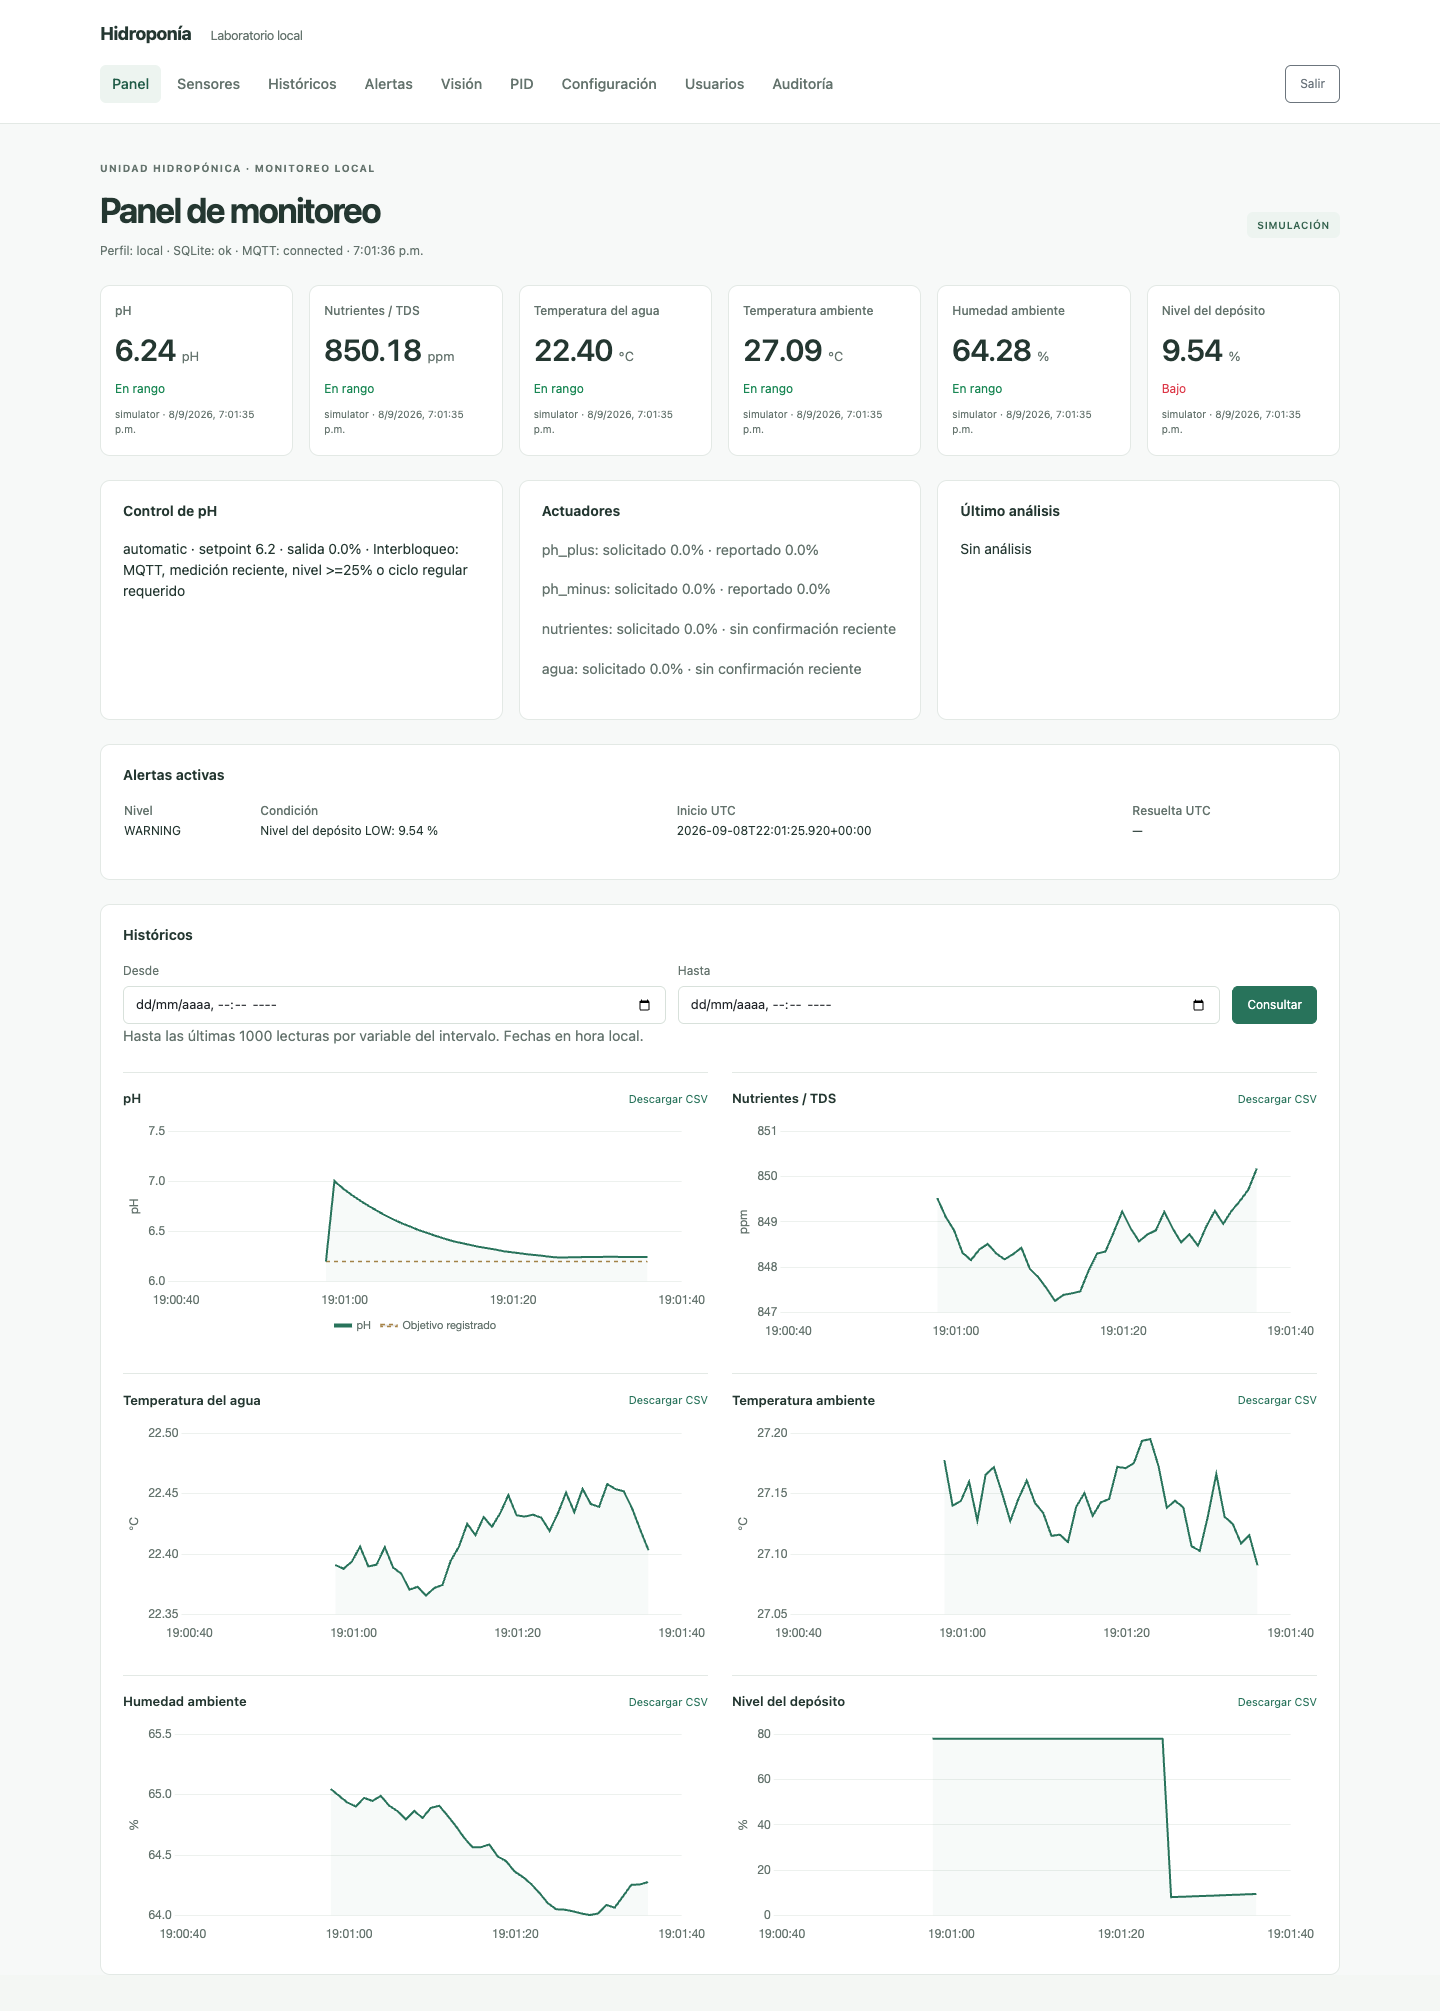
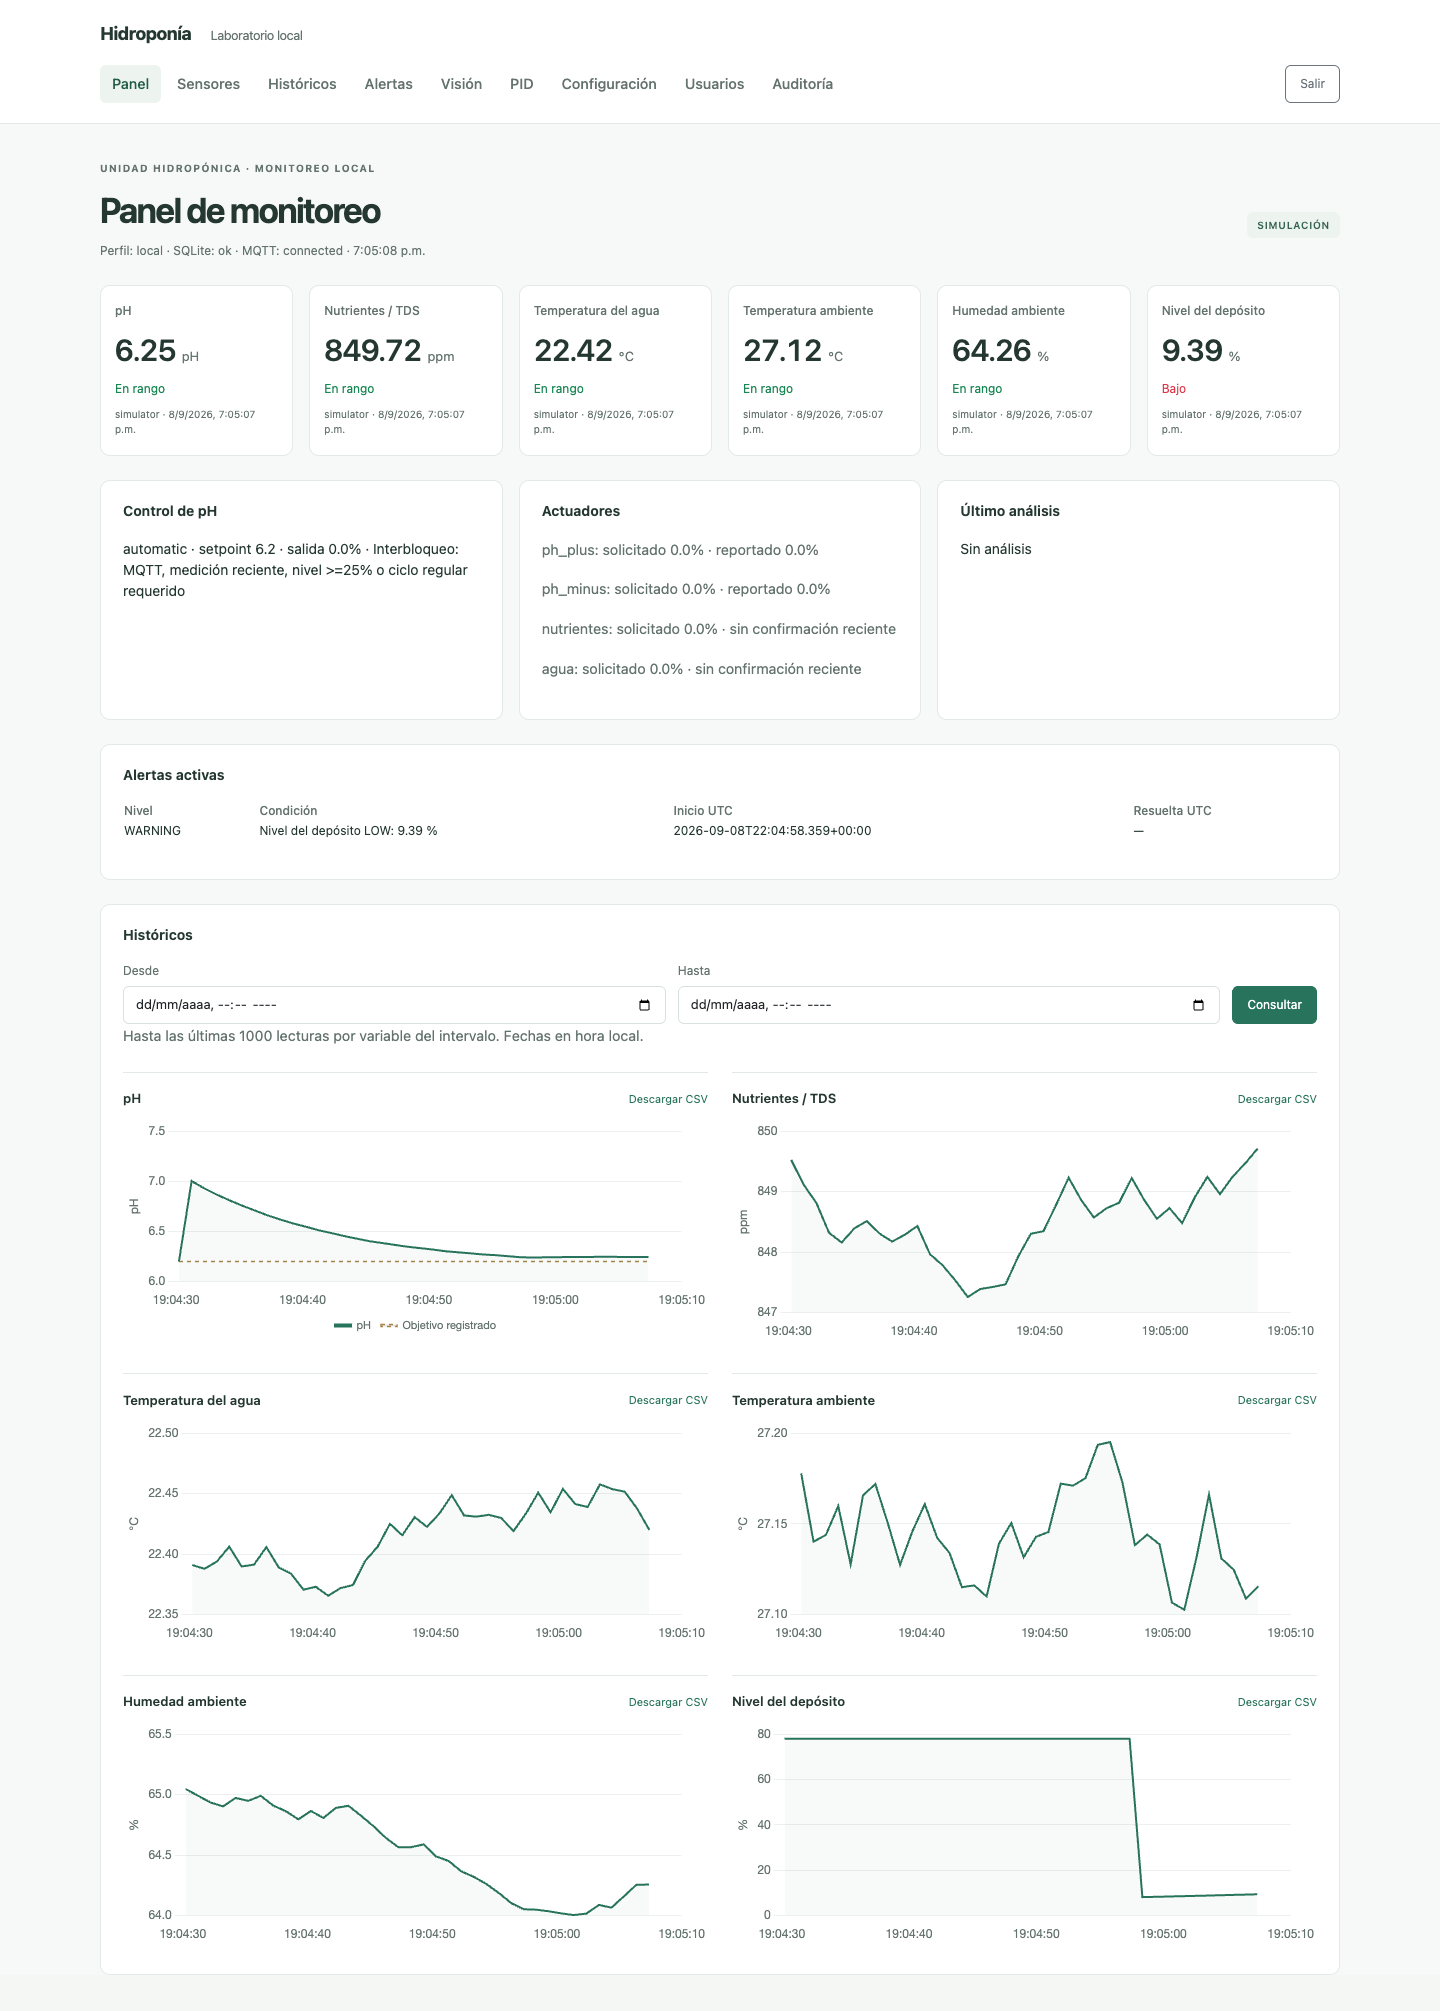
feat: mostrar imagenes del dataset en galeria de vision

diff --git a/app/static/js/system.js b/app/static/js/system.js
@@ -84,6 +84,37 @@ async function visions() {
   if($('vision-summary')) { $('vision-summary').textContent=data?`${data.coverage.toFixed(1)}% cobertura verde · ${date(data.timestamp)}`:'Sin análisis'; if(data) {const img=document.createElement('img');img.src=`/api/vision/image/${data.processed_image}`;img.alt='Última segmentación vegetal';$('vision-summary').append(img);} }
   if($('vision-list')) { const rows=await api('/api/vision'); $('vision-list').replaceChildren();rows.forEach(r=>{const card=node('article','');const img=document.createElement('img');img.src=`/api/vision/image/${r.processed_image}`;img.alt='Segmentación de '+r.filename;card.append(img,node('h3',`${r.coverage.toFixed(2)}% verde`),node('p',`${r.filename} · ${date(r.timestamp)}`),node('small',r.observations));$('vision-list').append(card);}); }
 }
+let mlPage=1, mlRequest=0;
+async function mlGallery(page=1) {
+  if(!$('ml-gallery')) return;
+  const request=++mlRequest;
+  $('ml-prev').disabled=true; $('ml-next').disabled=true;
+  $('ml-gallery-status').textContent='Cargando imágenes…';
+  $('ml-gallery').replaceChildren(); $('ml-page').textContent='';
+  try {
+    const data=await api(`/api/vision/ml/samples?split=${$('ml-split').value}&page=${page}`);
+    if(request!==mlRequest) return;
+    mlPage=data.page;
+    const number=value=>Number(value).toLocaleString('es',{maximumFractionDigits:2});
+    for(const sample of data.items) {
+      const card=node('article','','ml-sample');
+      if(sample.available) {
+        const link=document.createElement('a'); link.href=`/api/vision/ml/sample/${sample.id}`; link.target='_blank'; link.rel='noopener'; link.setAttribute('aria-label',`Abrir imagen ${sample.filename}`);
+        const img=document.createElement('img'); img.src=link.href; img.alt=`Lechuga segmentada de ${sample.experiment}, captura ${sample.date}, día relativo ${sample.target_day}`; img.loading='lazy'; img.width=640; img.height=480;
+        img.onerror=()=>link.replaceWith(node('p','Imagen no disponible o con integridad inválida.','note'));
+        link.append(img); card.append(link);
+      } else card.append(node('p','Imagen no disponible en esta instalación.','note'));
+      const info=node('div','','ml-sample-info');
+      info.append(node('h4',`${sample.date} · ${sample.experiment}`),node('p',sample.filename,'ml-filename'));
+      const values=node('dl','','ml-sample-values');
+      for(const [label,value] of [['Día registrado',number(sample.target_day)],['Día estimado',number(sample.predicted_day)],['Error absoluto',`${number(sample.error_days)} días`]]) values.append(node('dt',label),node('dd',value));
+      info.append(values); card.append(info); $('ml-gallery').append(card);
+    }
+    $('ml-gallery-status').textContent=`${data.total} imágenes en este conjunto. Mostrando ${(data.page-1)*12+1}–${Math.min(data.page*12,data.total)}. Abrí una imagen para verla completa.`;
+    $('ml-page').textContent=`Página ${data.page} de ${data.pages}`;
+    $('ml-prev').disabled=data.page<=1; $('ml-next').disabled=data.page>=data.pages;
+  } catch(error) { if(request===mlRequest) $('ml-gallery-status').textContent='No se pudo cargar la muestra: '+error.message; }
+}
 async function mlReport() {
   if(!$('ml-tests')) return;
   try {
@@ -122,7 +153,8 @@ async function refresh() {try{const state=await api('/api/health');$('connection
   button('auto','/api/control/mode',{mode:'automatic'});button('stop','/api/control/manual',{output:0});button('emergency','/api/control/emergency',{});button('reset','/api/control/reset',{});button('webcam','/api/vision/capture',{},visions);
   if($('backup')) $('backup').onclick=async()=>{try{const response=await fetch('/api/backup',{method:'POST',headers:{'X-CSRF-Token':csrf()}});if(!response.ok)throw new Error('Error al crear respaldo');const a=document.createElement('a');a.href=URL.createObjectURL(await response.blob());a.download='hidroponia-backup.sqlite3';a.click();setTimeout(()=>URL.revokeObjectURL(a.href),1000);}catch(e){feedback(e.message,true);}};
   if($('history-filter')) $('history-filter').onsubmit=e=>{e.preventDefault();histories().catch(e=>feedback(e.message,true));};
+  if($('ml-split')) { $('ml-split').onchange=()=>mlGallery(1); $('ml-prev').onclick=()=>mlGallery(mlPage-1); $('ml-next').onclick=()=>mlGallery(mlPage+1); }
   if($('alert-filter')) $('alert-filter').onchange=()=>alerts().catch(e=>feedback(e.message,true));
-  try { if($('image-files')) (await api('/api/vision/files')).forEach(f=>{const o=node('option',f);o.value=f;$('image-files').append(o);});await refresh();await controlStatus(true);await histories();await visions();await mlReport();await adminPages(); } catch(e){feedback(e.message,true);}
+  try { if($('image-files')) (await api('/api/vision/files')).forEach(f=>{const o=node('option',f);o.value=f;$('image-files').append(o);});await refresh();await controlStatus(true);await histories();await visions();await mlReport();await mlGallery();await adminPages(); } catch(e){feedback(e.message,true);}
   setInterval(refresh,2000);if($('charts'))setInterval(()=>histories().catch(e=>feedback(e.message,true)),10000);
 })();

diff --git a/app/templates/dashboard.html b/app/templates/dashboard.html
@@ -28,6 +28,14 @@
   <div id="ml-metrics" class="grid"></div>
   <details class="ml-details"><summary>Comparar entrenamiento, validación y prueba</summary><div id="ml-splits"></div></details>
   <figure id="ml-figure" hidden><img src="/api/vision/ml/evidence/evaluation.png" alt="Evaluación de HydroGrowNet: predicciones frente al día observado y error por día del tercer experimento." loading="lazy"><figcaption class="note">Experimento reservado para prueba. La línea discontinua del primer gráfico representa una predicción exacta.</figcaption></figure>
+  <section class="ml-gallery-section" aria-labelledby="ml-gallery-title">
+    <div class="heading"><div><h3 id="ml-gallery-title">Imágenes utilizadas en el entrenamiento y las pruebas</h3><p class="note">Imágenes originales del dataset, ya segmentadas por sus autores. El día registrado es relativo al inicio de cada experimento.</p></div>
+      <label for="ml-split">Conjunto<select id="ml-split" class="form-select"><option value="test">Prueba reservada · Month3</option><option value="validation">Validación · Month2</option><option value="train">Entrenamiento · Month1</option></select></label>
+    </div>
+    <p id="ml-gallery-status" class="note" role="status">Cargando imágenes…</p>
+    <div id="ml-gallery" class="ml-gallery" aria-label="Muestra de imágenes del dataset"></div>
+    <div class="ml-pagination"><button id="ml-prev" class="btn btn-outline-secondary" type="button" disabled>Anterior</button><span id="ml-page" class="note"></span><button id="ml-next" class="btn btn-outline-secondary" type="button" disabled>Siguiente</button></div>
+  </section>
   <div class="actions"><a class="btn btn-outline-secondary" href="/api/vision/ml/evidence/RESULTADOS.md">Descargar informe</a><a class="btn btn-outline-secondary" href="/api/vision/ml/evidence/predictions.csv">Descargar predicciones CSV</a><a class="btn btn-outline-secondary" href="https://data.mendeley.com/datasets/g6cm3v3wdp/3" target="_blank" rel="noopener noreferrer">Dataset original ↗</a></div>
   <p class="note mt-3 mb-0">Resultados de una muestra del dataset, independientes de tus capturas y de los sensores Wokwi. Este modelo no controla actuadores. Datos: Shalash, Hassan, Metwalli y Elhefny (2025), CC BY 4.0.</p>
 </section>

diff --git a/app/static/css/app.css b/app/static/css/app.css
@@ -88,3 +88,17 @@ a { color:var(--accent); }
 #ml-figure figcaption { font-size:12px; margin-top:10px; }
 #ml-tests .heading { margin-bottom:16px; }
 #ml-title { margin-bottom:0; }
+
+.ml-gallery-section { margin:28px 0; padding-top:24px; border-top:1px solid var(--line); }
+.ml-gallery { display:grid; grid-template-columns:repeat(3,minmax(0,1fr)); gap:16px; }
+.ml-sample { padding:0; overflow:hidden; }
+.ml-sample img { width:100%; height:auto; aspect-ratio:4/3; object-fit:contain; background:#000; margin:0; border-radius:0; }
+.ml-sample-info { padding:16px; }
+.ml-sample h4 { font-size:13px; font-weight:600; }
+.ml-filename { font-size:11px; overflow-wrap:anywhere; }
+.ml-sample-values { display:grid; grid-template-columns:1fr auto; gap:6px 12px; margin:0; font-size:12px; }
+.ml-sample-values dt { font-weight:400; color:var(--muted); }
+.ml-sample-values dd { margin:0; font-variant-numeric:tabular-nums; }
+.ml-pagination { display:flex; align-items:center; justify-content:center; gap:16px; margin-top:20px; }
+@media(max-width:900px) { .ml-gallery { grid-template-columns:repeat(2,minmax(0,1fr)); } }
+@media(max-width:540px) { .ml-gallery { grid-template-columns:1fr; } }

diff --git a/app/routes/vision.py b/app/routes/vision.py
@@ -55,3 +55,61 @@ def ml_evidence(name):
     if not path.is_file():
         abort(404)
     return send_file(path,as_attachment=name!='evaluation.png',download_name=name)
+
+
+def _ml_samples():
+    import csv
+    import json
+    root=Path(current_app.root_path).parent
+    try:
+        manifest=json.loads((root/'docs/ml/sample-manifest.json').read_text())
+        with (root/'docs/ml/predictions.csv').open() as stream:
+            predictions={(r['experiment'],r['member'],r['sha256']):r for r in csv.DictReader(stream)}
+    except FileNotFoundError:
+        abort(404,description='Muestra del entrenamiento no disponible')
+    samples=[]
+    for row in manifest:
+        prediction=predictions.get((row['experiment'],row['member'],row['sha256']))
+        if prediction is None:
+            continue
+        # El identificador se calcula; nunca se sirve una ruta enviada por el cliente.
+        import hashlib
+        identifier=hashlib.sha256((row['experiment']+'/'+row['member']).encode()).hexdigest()
+        target=float(prediction['target_day'])
+        predicted=float(prediction['predicted_day'])
+        samples.append(dict(id=identifier,sha256=row['sha256'],experiment=row['experiment'],
+            date=row['date'],filename=Path(row['member']).name,split=prediction['split'],
+            target_day=target,predicted_day=predicted,error_days=abs(predicted-target),
+            available=(root/'data/ml/hydrogrow/images'/f'{identifier}.png').is_file()))
+    return sorted(samples,key=lambda s:(s['experiment'],s['date'],s['filename']))
+
+
+@bp.get('/ml/samples')
+def ml_samples():
+    split=request.args.get('split','test')
+    if split not in {'train','validation','test'}:
+        abort(400,description='Conjunto inválido')
+    try:
+        page=int(request.args.get('page','1'))
+    except ValueError:
+        abort(400,description='Página inválida')
+    rows=[row for row in _ml_samples() if row['split']==split]
+    pages=max(1,(len(rows)+11)//12)
+    if not 1<=page<=pages:
+        abort(400,description='Página fuera de rango')
+    return jsonify(items=rows[(page-1)*12:page*12],page=page,pages=pages,total=len(rows))
+
+
+@bp.get('/ml/sample/<identifier>')
+def ml_sample_image(identifier):
+    import hashlib
+    import re
+    if not re.fullmatch('[a-f0-9]{64}',identifier):
+        abort(404)
+    sample=next((s for s in _ml_samples() if s['id']==identifier),None)
+    if sample is None or not sample['available']:
+        abort(404,description='Imagen del dataset no disponible en esta instalación')
+    path=Path(current_app.root_path).parent/'data/ml/hydrogrow/images'/f'{identifier}.png'
+    if hashlib.sha256(path.read_bytes()).hexdigest()!=sample['sha256']:
+        abort(409,description='La imagen no coincide con la muestra utilizada al entrenar')
+    return send_file(path,mimetype='image/png')

diff --git a/tests/test_vision_ml.py b/tests/test_vision_ml.py
@@ -26,3 +26,40 @@ def test_operator_can_read_saved_experiment(client,app):
 def test_only_reviewable_evidence_is_served(client):
     for name in ['model.json','source.json','.env','unknown.txt']:
         assert client.get('/api/vision/ml/evidence/'+name).status_code==404
+
+
+def test_sample_pagination_and_split_validation(client):
+    first=client.get('/api/vision/ml/samples').json
+    second=client.get('/api/vision/ml/samples?page=2').json
+    assert first['total']==192 and first['pages']==16
+    assert len(first['items'])==12
+    assert all(s['split']=='test' for s in first['items'])
+    assert not {s['id'] for s in first['items']} & {s['id'] for s in second['items']}
+    assert client.get('/api/vision/ml/samples?split=train').json['total']==204
+    assert client.get('/api/vision/ml/samples?split=validation').json['total']==216
+    for query in ['split=unknown','page=0','page=17','page=abc']:
+        assert client.get('/api/vision/ml/samples?'+query).status_code==400
+
+
+def test_sample_images_are_allowlisted_and_hash_verified(client,app,tmp_path,monkeypatch):
+    import hashlib
+    from app.routes import vision
+    data=b'known image content'
+    identifier='a'*64
+    monkeypatch.setattr(app,'root_path',str(tmp_path/'app'))
+    folder=tmp_path/'data/ml/hydrogrow/images'
+    folder.mkdir(parents=True)
+    image=folder/f'{identifier}.png'
+    image.write_bytes(data)
+    monkeypatch.setattr(vision,'_ml_samples',lambda:[dict(id=identifier,available=True,sha256=hashlib.sha256(data).hexdigest())])
+    assert client.get('/api/vision/ml/sample/'+identifier).data==data
+    image.write_bytes(b'changed')
+    assert client.get('/api/vision/ml/sample/'+identifier).status_code==409
+    assert client.get('/api/vision/ml/sample/'+'b'*64).status_code==404
+    assert client.get('/api/vision/ml/sample/invalid').status_code==404
+
+
+def test_gallery_requires_login(app):
+    client=app.test_client()
+    assert client.get('/api/vision/ml/samples').status_code==401
+    assert client.get('/api/vision/ml/sample/'+'a'*64).status_code==401

diff --git a/scripts/verify_integration.py b/scripts/verify_integration.py
@@ -138,6 +138,18 @@ def main():
                             page.wait_for_selector('#ml-metrics article')
                             assert page.locator('#ml-metrics article').count()==3
                             assert 'Precisión insuficiente' in page.locator('#ml-status').inner_text()
+                            page.wait_for_selector('#ml-gallery article')
+                            assert page.locator('#ml-gallery article').count()==12
+                            assert '192 imágenes' in page.locator('#ml-gallery-status').inner_text()
+                            first_image=page.locator('#ml-gallery img').first
+                            first_image.scroll_into_view_if_needed()
+                            page.wait_for_function("document.querySelector('#ml-gallery img').naturalWidth > 0")
+                            page.locator('#ml-next').click()
+                            page.wait_for_function("document.querySelector('#ml-page').textContent==='Página 2 de 16'")
+                            page.locator('#ml-split').select_option('train')
+                            page.wait_for_function("document.querySelector('#ml-gallery-status').textContent.startsWith('204 imágenes')")
+                            page.locator('#ml-split').select_option('test')
+                            page.wait_for_function("document.querySelector('#ml-gallery-status').textContent.startsWith('192 imágenes')")
                             page.locator('#ml-figure').scroll_into_view_if_needed()
                             page.wait_for_function("document.querySelector('#ml-figure img').naturalWidth > 0")
                             for width,height in [(1440,1000),(768,1024),(390,844)]:

diff --git a/docs/ml/README.md b/docs/ml/README.md
@@ -94,3 +94,18 @@ es exploratoria, **no diagnóstico agronómico**, no certifica edad ni madurez y
 se conecta a actuadores. El panel muestra únicamente evidencias guardadas, sin ejecutar este modelo sobre
 capturas del usuario. Antes de habilitar inferencia operativa habría que definir un objetivo
 agronómico medido y validarlo con capturas propias y anotaciones independientes.
+
+## Galería en Visión
+
+El apartado experimental muestra las imágenes de los tres conjuntos, paginadas
+de 12 en 12, junto con fecha, día relativo registrado, predicción y error absoluto.
+Se abre por defecto la prueba reservada (Month3). Las imágenes se sirven solamente
+a usuarios autenticados, desde la muestra del manifiesto y verificando SHA-256.
+Se conservan sus píxeles originales, incluido el fondo negro de la segmentación
+del autor. No son fotos del cultivo local.
+
+Los PNG originales permanecen en `data/ml/hydrogrow/images`, excluidos de Git.
+En otra instalación, ejecutar el descargador documentado arriba para recuperar
+la muestra; sin esos archivos la galería indica que las imágenes no están
+disponibles. La captura `dashboard-vision.png` incluye ejemplos atribuidos al
+dataset CC BY 4.0 descrito en este documento.
